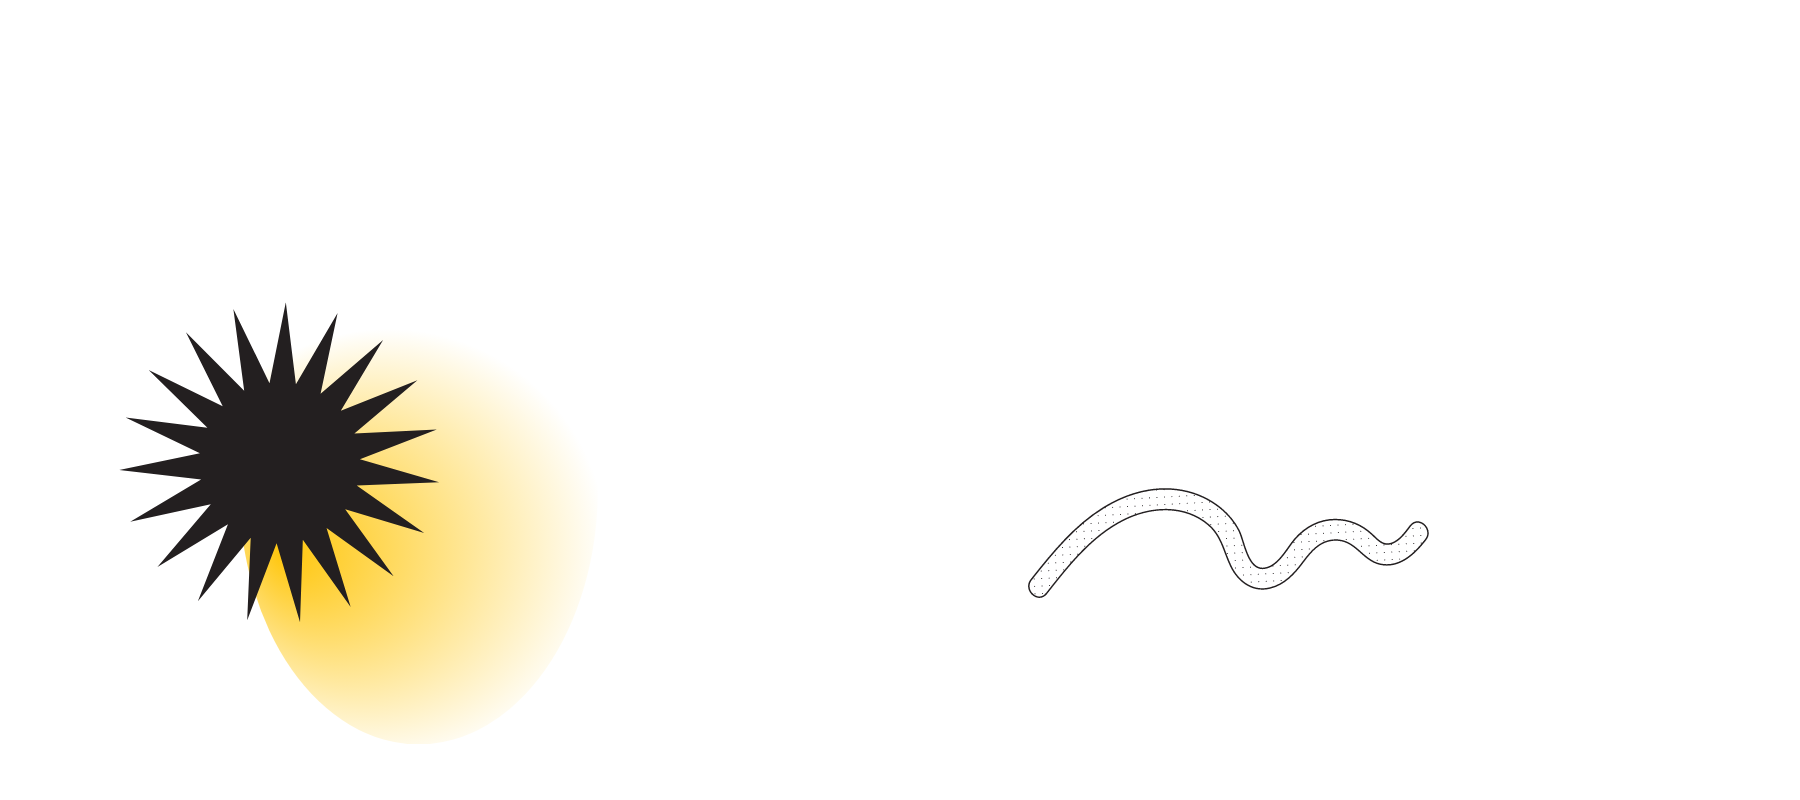
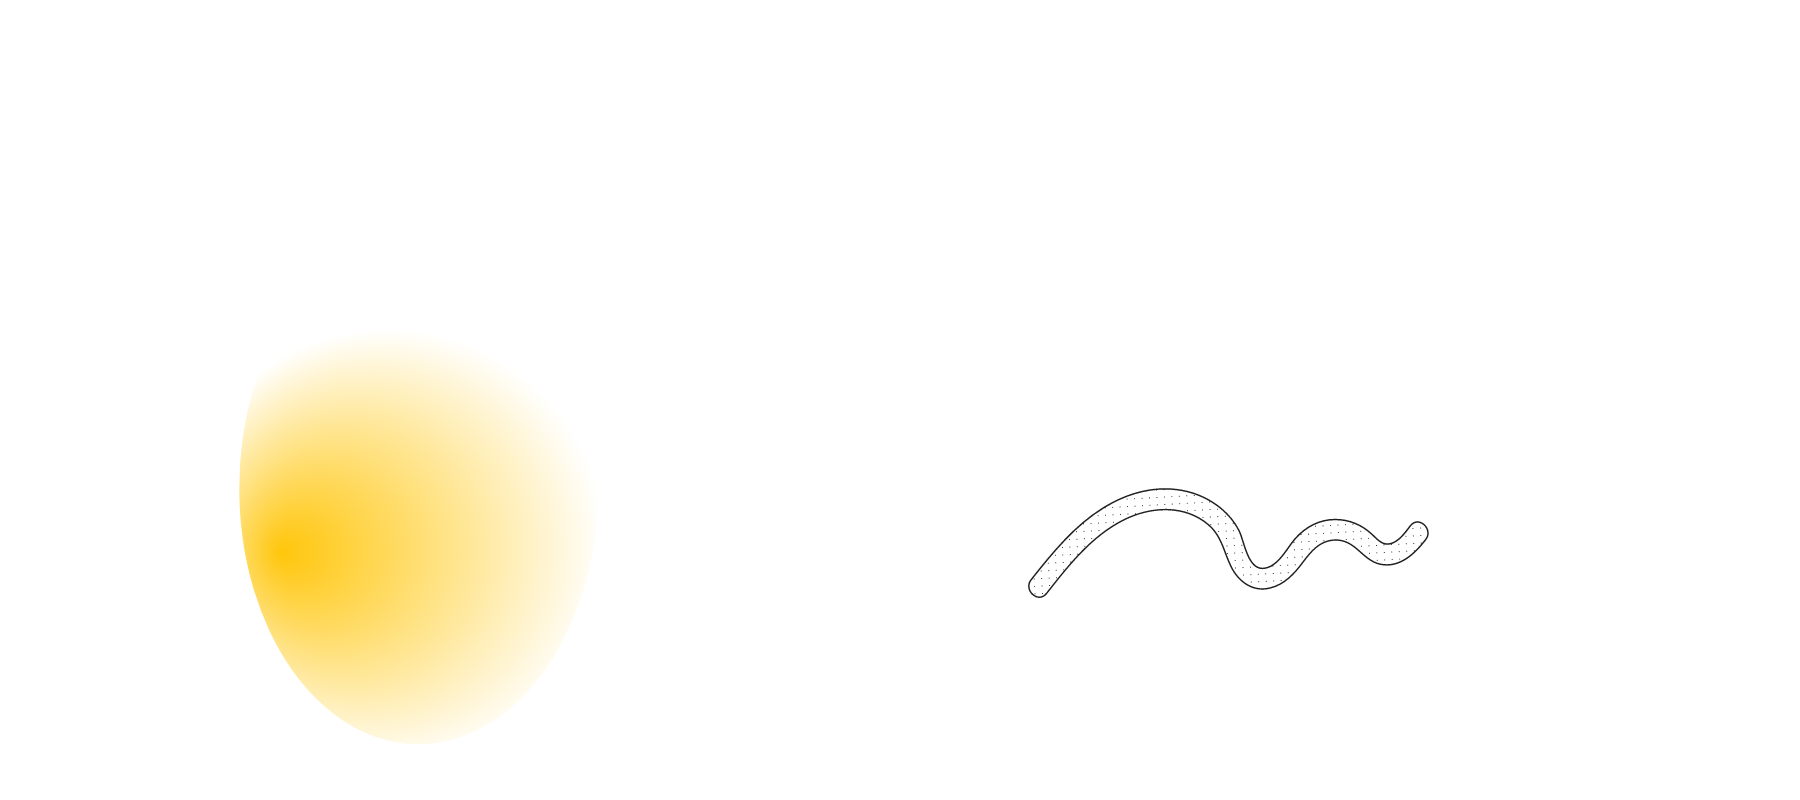
Some frontend changes and code

Changed region(s): [[0.0622, 0.4062, 0.2489, 0.75]]

diff --git a/src/app/components/profile-page/profile-page.component.html b/src/app/components/profile-page/profile-page.component.html
@@ -2,8 +2,8 @@
 <div class="section section-watermark-left">
   <div class="container" *ngIf="userData as user">
     <div class="profile-page-header ds-top">
-      <div class="avatar-holder" id="profile-picture">
-        <img src="{{user.profilePicURL}}" alt="">
+      <div  id="profile-picture">
+        <img src="{{user.profilePicURL}}" class="avatar-holder" alt="avatar">
       </div>
       <div class="personal-data-header">
         <div class="row" *ngIf="isCelebrity">
@@ -46,7 +46,45 @@
           </div>
         </div>
       </div>
-      <div></div>
+      <div>
+        <div *ngIf="isBusiness">
+          <div class="row">
+            <span *ngIf="isMyProfile">Use the marker on the map to enter your address</span>
+          </div>
+          <div class="maprouter row">
+            <div class="gmap_canvas_profile">
+              <agm-map  [latitude]="lat" [longitude]="lng" [zoom]="15" >
+                <agm-marker [latitude]="lat" [longitude]="lng" [markerDraggable]="true"
+                  (dragEnd)="markerDragEnd($event)"></agm-marker>
+              </agm-map><br>
+              <style>
+                .maprouter {
+                  position: relative;
+                  text-align: right;
+                  height: 30rem;
+                  width: auto
+                }
+              </style>
+              <style>
+                .gmap_canvas_profile {
+                  overflow: hidden;
+                  background: none !important;
+                  height: 30rem;
+                  width: auto;
+                }
+              </style>
+            </div>
+          </div>
+          <div>
+            <h5>Address: {{this.userData.address}}</h5>
+  
+          </div>
+          <div class="row" *ngIf="isMyProfile">
+            <input type="button" (click)="storeAddress()" class="button cc-edit-profile w-inline-block"
+              style=" float: left; margin-left: 0;" value="Запази">
+          </div>
+        </div>
+      </div>
       <div>
         <div class="row social-media-row">
           <div class="col-md-1">
@@ -76,54 +114,7 @@
         </div>
       </div>
       <div></div>
-      <div *ngIf="isBusiness">
-        <div class="row">
-          <span *ngIf="isMyProfile">Use the marker on the map to enter your address</span>
-          <!-- <div class="col-md-2">
-            <label for="" class="edit-label"> Вашият адрес: </label>
-          </div>
-          <div class="col-md-1"> &nbsp;</div> -->
-          <!-- <div class="form-group">
-            <input type="text" value={{address}} class="form-control" (keydown.enter)="$event.preventDefault()" placeholder="Намерете своят адрес" autocorrect="off" autocapitalize="off" spellcheck="off" type="text" #search>
-          </div>
-          <div class="col-md-5">
-            <input type="text"  class="formControl
-            signup-field   userData"  value="{{user.address}}">
-          </div> -->
-        </div>
-        <div class="maprouter row">
-          <div class="gmap_canvas_profile">
-            <agm-map  [latitude]="lat" [longitude]="lng" [zoom]="15" >
-              <agm-marker [latitude]="lat" [longitude]="lng" [markerDraggable]="true"
-                (dragEnd)="markerDragEnd($event)"></agm-marker>
-            </agm-map><br>
-            <style>
-              .maprouter {
-                position: relative;
-                text-align: right;
-                height: auto;
-                width: auto
-              }
-            </style>
-            <style>
-              .gmap_canvas_profile {
-                overflow: hidden;
-                background: none !important;
-                height: 30rem;
-                width: auto;
-              }
-            </style>
-          </div>
-        </div>
-        <div>
-          <h5>Address: {{this.userData.address}}</h5>
-
-        </div>
-        <div class="row" *ngIf="isMyProfile">
-          <input type="button" (click)="storeAddress()" class="button cc-edit-profile w-inline-block"
-            style=" float: left; margin-left: 0;" value="Запази">
-        </div>
-      </div>
+      
     </div>
   </div>
 </div>

diff --git a/src/app/components/profile-page/profile-page.component.css b/src/app/components/profile-page/profile-page.component.css
@@ -5,7 +5,7 @@
 }
 
 .profile-page-header {
-  background: rgba(255, 255, 255, 0.2);
+  background: rgba(255, 255, 255, 0.5);
   border-radius: 30px;
   padding: 5%;
   display: grid;
@@ -35,7 +35,6 @@
   max-height: 400px;
   border-radius: 10px;
   box-shadow: 0 10px 25px 5px rgba(0, 0, 0, 0.2);
-  background: #151515;
 }
 
 
@@ -46,11 +45,6 @@
   color:#151515;
 }
 
-.blur {
-  background: rgba(122, 120, 120, 0.2);
-  backdrop-filter: blur(2px);
-  background-size: cover;
-}
 .mat-chip-list-wrapper {
   display: flex;
   flex-direction: row;
@@ -66,15 +60,19 @@
   width: 200px;
   height: 200px;
   border-radius: 50%;
-  background: rgb(10, 47, 211);
+  background: rgb(120, 10, 211);
   animation: mvTop 1.5s;
 }
 
-.profile-page-summary-card .avatar-holder img {
-  
+img .avatar-holder {
   object-fit: cover;
+  max-height: 200px;
+  border-radius: 50%;
 }
 
+.social-media-icon {
+  max-width: 50px;
+}
 
 .profile-page-summary-card .name {
   margin: auto;
@@ -94,11 +92,8 @@
   font-size: 18px;
 }
 
-.profile-page-summary-card .name a:hover {
-  text-decoration: underline;
-}
 
-.profile-page-summary-card .name h6 {
+.name h6 {
   margin: auto;
   left: 0;
   right: 0;
@@ -106,17 +101,7 @@
   width: 40px;
 }
 
-.profile-page-summary-card .ds-top {
-  margin: auto;
-  top: 0;
-  right: 0;
-  left: 0;
-  width: 300px;
-  height: 100px;
-  background: rgb(212, 198, 153);
-  ;
-  animation: dsTop 1.5s;
-}
+ 
 
 .social-media-row {
   padding: 1%;

diff --git a/src/app/components/dashboard/dashboard.component.html b/src/app/components/dashboard/dashboard.component.html
@@ -56,7 +56,7 @@
                 <div class="business-card-grid">
                   <div >
                     <img style="border-radius: 100px; max-width: 80% !important; vertical-align: middle;"
-                      src="{{business.profilePicURL ? business.profilePicURL : '../../assets/images/star-profile-pic.png'}}">
+                      src="{{business.profilePicURL ? business.profilePicURL : '../../assets/icons/icon-default.png'}}">
                   </div>
                   <div>
                     <a style="text-decoration: none;" [routerLink]="['/profile-page', business.uid]">
@@ -93,7 +93,7 @@
           <div class="row celebrity-grid">
             <div class="celebrity-card-container col-md-3" *ngFor='let celebrity of usersService.celebrities'>
               <img
-                src="{{celebrity.profilePicURL ? celebrity.profilePicURL  : '../../assets/images/star-profile-pic.png'}}"
+                src="{{celebrity.profilePicURL ? celebrity.profilePicURL  : '../../assets/icons/icon-default.png'}}"
                 alt="Avatar" class="celebrity-card-avatar" style="width:100%">
               <div class="celebrity-card-middle">
                 <div class="celebrity-card-text"><a

diff --git a/src/app/components/landing-page/landing-page.component.html b/src/app/components/landing-page/landing-page.component.html
@@ -1,6 +1,7 @@
 <div class="landing-background">
   <div class="row">
     <div class="col-md-12 title-div">
+      <img src="../../../assets/images/star.png" class="rotateStar" alt="star">
       <p class="title">
         hi, i'm karina delcheva and i'm a fullstack developer.
       </p>
@@ -24,12 +25,14 @@
             <div>Виж повече</div>
           </a>
         </div>
+        <img src="../../../assets/images/star.png" class="rotateStar" alt="star">
 
       </div>
       <br>
       <br>
       <br>
       <div class="w-layout-grid about-grid cc-about-2">
+        <img src="../../../assets/images/star.png" class="rotateStar" alt="star">
 
         <div id="w-node-_86e64837-0616-515b-4568-76c147234d41-c92c3fea">
           <div class="home-section-wrap">

diff --git a/src/app/components/landing-page/landing-page.component.css b/src/app/components/landing-page/landing-page.component.css
@@ -24,8 +24,7 @@
     font-size: 65px !important;
     text-transform: uppercase;
     margin-top: 15%;
-    margin-left: 25%;
-    margin-right: 25%;
+    margin-right: 20%;
 
     line-height: 60px;
   }
@@ -37,12 +36,18 @@
   }
 
 
+  .rotateStar{
+    margin: 100px;
+    height: 120px;
+    animation: animStar 50s linear infinite;
+
+  }
+
   @keyframes animStar {
     from {
-      transform: translateY(0px);
-    }
-    to {
-      transform: translateY(-2000px);
+      transform: rotate(360deg);
+    } to {
+      transform: rotate(-360deg);
     }
   }
 
@@ -99,7 +104,7 @@
 }
 .fadeInRight.go {
   -webkit-animation-name: fadeInRight;
-  animation-name: fadeInRight;
+  animation: fadeInRight;
 }
 
 .section-watermark-right {

diff --git a/src/app/shared/models/user.ts b/src/app/shared/models/user.ts
@@ -91,7 +91,7 @@ export class DefaultUser implements User {
     this.email = '';
     this.emailVerified = false;
     this.personalCode = 123456;
-    this.profilePicURL = '/src/assets/images/star-profile-pic.png';
+    this.profilePicURL = '/src/assets/icons/icon-default.png';
     this.userGroup = '';
     this.firstName = '';
     this.lastName = '';
